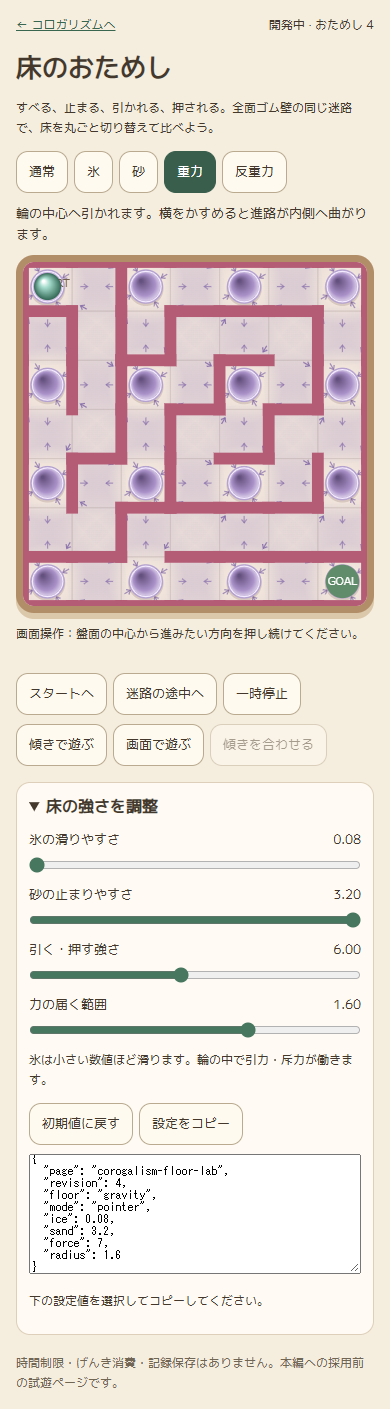
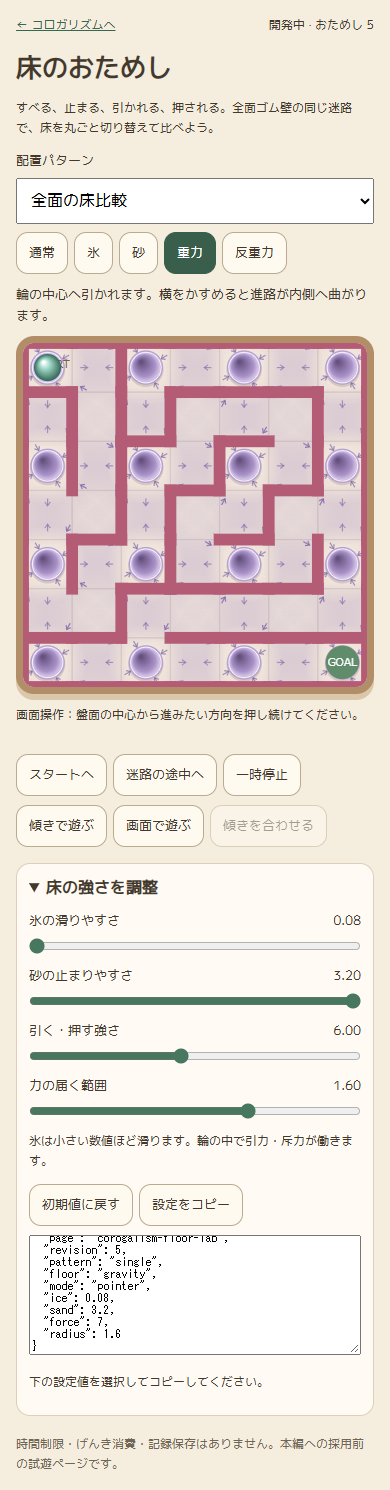
feat(T-251): add floor and corner-force trial patterns

diff --git a/src/lab/floorLab.js b/src/lab/floorLab.js
@@ -4,7 +4,7 @@ import { createFixedCamera } from '../render/camera.js';
 import { createTiltVector } from '../input/tiltVector.js';
 import { createTiltSource } from '../input/tiltSource.js';
 import { createPointerSource } from '../input/pointerSource.js';
-import { createFloorLab, applyFloor, FLOOR_OPTIONS, PATCH_CELLS } from './floorModel.js';
+import { createFloorLab, applyFloor, FLOOR_OPTIONS, PATTERNS } from './floorModel.js';
 
 import { drawFloorVisuals } from './floorVisuals.js';
 
@@ -12,6 +12,7 @@ const $ = id => document.getElementById(id);
 const canvas = $('board'), ctx = canvas.getContext('2d');
 const { stage, actor } = createFloorLab();
 const settings = { ...FLOOR_LAB }, tilt = createTiltVector();
+let pattern = 'single';
 let type = 'normal', mode = 'pointer', paused = false, last = 0, sensorTimer, requestId = 0;
 let camera, won = false, visualTime = 0;
 const reducedMotion = matchMedia('(prefers-reduced-motion: reduce)');
@@ -45,14 +46,18 @@ $('pointer').onclick = () => pointerMode();
 $('calibrate').onclick = () => { tilt.reset(); sensor.calibrate(); $('status').textContent = '今の姿勢で少し静止してください。'; scheduleFallback(requestId); };
 function reset(x = 0.5, y = 0.5) { Object.assign(actor, { x, y, vx: 0, vy: 0 }); tilt.reset(); won = false; }
 $('reset').onclick = () => reset();
-$('plaza').onclick = () => { const cell = stage.maze.path[Math.floor(stage.maze.path.length / 2)]; reset(cell.x + .5, cell.y + .5); };
+$('plaza').onclick = () => { const cell = stage.maze.path[stage.labSites.length ? Math.max(0, stage.labSites[0].index-2) : Math.floor(stage.maze.path.length / 2)]; reset(cell.x + .5, cell.y + .5); };
 $('pause').onclick = () => { paused = !paused; tilt.reset(); $('pause').textContent = paused ? '再開' : '一時停止'; };
 function updateFloor() {
-  applyFloor(stage, type, settings);
-  $('hint').textContent = FLOOR_OPTIONS[type].hint;
+  applyFloor(stage, type, settings, pattern);
+  $('hint').textContent = pattern === 'single' ? FLOOR_OPTIONS[type].hint : PATTERNS[pattern].hint;
+  $('floors').hidden = pattern !== 'single';
+  $('plaza').textContent = stage.labSites.length ? '試験区間へ' : '迷路の途中へ';
   for (const button of $('floors').children) button.setAttribute('aria-pressed', String(button.dataset.type === type));
   for (const key of Object.keys(settings)) { $(key).value = settings[key]; $(key + '-value').textContent = settings[key].toFixed(2); }
 }
+for (const [key, option] of Object.entries(PATTERNS)) { const el = document.createElement('option'); el.value = key; el.textContent = option.name; $('pattern').append(el); }
+$('pattern').onchange = () => { pattern = $('pattern').value; updateFloor(); reset(); };
 for (const [key, option] of Object.entries(FLOOR_OPTIONS)) {
   const button = document.createElement('button'); button.textContent = option.name; button.dataset.type = key;
   button.onclick = () => { type = key; updateFloor(); reset(); };
@@ -61,7 +66,7 @@ for (const [key, option] of Object.entries(FLOOR_OPTIONS)) {
 for (const key of Object.keys(settings)) $(key).oninput = () => { settings[key] = Number($(key).value); updateFloor(); };
 $('defaults').onclick = () => { Object.assign(settings, FLOOR_LAB); updateFloor(); reset(); };
 $('copy').onclick = async () => {
-  const text = JSON.stringify({ page: 'corogalism-floor-lab', revision: 4, floor: type, mode, ...settings }, null, 2);
+  const text = JSON.stringify({ page: 'corogalism-floor-lab', revision: 5, pattern, floor: type, mode, ...settings }, null, 2);
   $('settings-text').hidden = false; $('settings-text').value = text;
   try { await navigator.clipboard.writeText(text); $('copy-status').textContent = 'コピーしました。この設定と感想を送ってください。'; }
   catch { $('settings-text').focus(); $('settings-text').select(); $('copy-status').textContent = '下の設定値を選択してコピーしてください。'; }
@@ -113,4 +118,4 @@ function frame(now) {
 document.addEventListener('visibilitychange', () => { tilt.reset(); last = 0; if (document.hidden) { paused = true; $('pause').textContent = '再開'; } });
 window.addEventListener('blur', () => { tilt.reset(); paused = true; $('pause').textContent = '再開'; });
 pointerMode(); updateFloor(); requestAnimationFrame(frame);
-if (new URLSearchParams(location.search).has('debug')) window.__floorLab = { stage, actor, settings, get type() { return type; }, get mode() { return mode; } };
+if (new URLSearchParams(location.search).has('debug')) window.__floorLab = { stage, actor, settings, get pattern() { return pattern; }, get type() { return type; }, get mode() { return mode; } };

diff --git a/src/lab/floorModel.js b/src/lab/floorModel.js
@@ -22,10 +22,57 @@ export function createFloorLab() {
 export const PATCH_CELLS = Array.from({ length: 49 }, (_, i) => ({ x: i % 7, y: Math.floor(i / 7) }));
 export const FIELD_CENTERS = [0.5, 2.5, 4.5, 6.5].flatMap(y => [0.5, 2.5, 4.5, 6.5].map(x => ({ x, y })));
 
-export function applyFloor(stage, type, settings) {
+export const PATTERNS = {
+  single: { name: '全面の床比較', hint: '' },
+  iceRubber: { name: '全面氷＋ゴム', hint: '採用決定の組み合わせ。反発と慣性を制御してゴールへ。' },
+  iceSand: { name: '氷＋砂', hint: '氷で滑走し、曲がり角の手前と角の砂でブレーキ。' },
+  cornerGravity: { name: '曲がり角の重力', hint: '角の円盤は、曲がって進む方向と逆側へ引きます。' },
+  cornerRepulsion: { name: '曲がり角の反重力', hint: '角の円盤は、曲がって進む方向側から押し戻します。' },
+  iceGravity: { name: '氷＋重力', hint: '短い氷区間に重力を1個。滑る勢いと引力を読みます。' },
+  iceRepulsion: { name: '氷＋反重力', hint: '短い氷区間に反重力を1個。押されて変わる軌道を試そう。' },
+};
+
+export function cornerSites(maze) {
+  const sites = [];
+  for (let i = 3; i < maze.path.length - 3; i++) {
+    const prev = maze.path[i-1], cell = maze.path[i], next = maze.path[i+1];
+    const dx = next.x-cell.x, dy = next.y-cell.y;
+    if ((cell.x-prev.x)*dy === (cell.y-prev.y)*dx) continue;
+    if (sites.length && i-sites.at(-1).index < 5) continue;
+    sites.push({ index: i, cell, dx, dy });
+    if (sites.length === 3) break;
+  }
+  return sites;
+}
+
+export function applyFloor(stage, type, settings, pattern = 'single') {
   stage.zones = [];
+  stage.labPattern = pattern;
+  stage.labSites = [];
+  if (pattern !== 'single') {
+    const sites = cornerSites(stage.maze);
+    const floor = (kind, cells) => { if (cells.length) stage.zones.push({ kind, cells, ...(kind === 'ice' ? ICE_LAB : {}), frictionK: settings[kind], forceX: 0, forceY: 0 }); };
+    if (pattern === 'iceRubber') floor('ice', PATCH_CELLS);
+    if (pattern === 'iceSand') {
+      const sand = sites.flatMap(site => stage.maze.path.slice(site.index-1,site.index+1));
+      floor('sand', sand);
+      floor('ice', PATCH_CELLS.filter(c=>!sand.some(s=>s.x===c.x&&s.y===c.y)));
+    }
+    if (pattern.includes('Gravity') || pattern.includes('Repulsion')) {
+      const selected = pattern.startsWith('ice') ? sites.slice(0,1) : sites;
+      const attract = pattern.endsWith('Gravity');
+      for (const site of selected) {
+        const sign = attract ? -1 : 1;
+        stage.zones.push({ kind: 'radial', x: site.cell.x+.5+sign*site.dx*.14, y: site.cell.y+.5+sign*site.dy*.14,
+          radius: settings.radius, strength: settings.force*(attract?1:-1), corner: true });
+        stage.labSites.push(site);
+        if (pattern.startsWith('ice')) floor('ice',stage.maze.path.slice(site.index-2,site.index+2));
+      }
+    }
+    return;
+  }
   if (type === 'ice' || type === 'sand') {
-    stage.zones.push({ cells: PATCH_CELLS, ...(type === 'ice' ? { kind: 'ice', ...ICE_LAB } : {}), frictionK: settings[type], forceX: 0, forceY: 0 });
+    stage.zones.push({ cells: PATCH_CELLS, kind: type, ...(type === 'ice' ? { kind: 'ice', ...ICE_LAB } : {}), frictionK: settings[type], forceX: 0, forceY: 0 });
   } else if (type === 'gravity' || type === 'repulsion') {
     for (const center of FIELD_CENTERS) stage.zones.push({ kind: 'radial', ...center, radius: settings.radius,
       strength: settings.force * (type === 'gravity' ? 1 : -1) });

diff --git a/src/lab/floorVisuals.js b/src/lab/floorVisuals.js
@@ -1,5 +1,4 @@
 import { sampleZone } from '../world/stage.js';
-import { PATCH_CELLS, FIELD_CENTERS } from './floorModel.js';
 
 // 物理に触れず、セル座標の描画だけを担当する。
 export function drawFloorVisuals(ctx, camera, { type, settings, actor, time, reduced, stage }) {
@@ -15,8 +14,9 @@ export function drawFloorVisuals(ctx, camera, { type, settings, actor, time, red
     line([[-length/2,0],[length/2,0]]);
     line([[length/2-.07,-.055],[length/2,0],[length/2-.07,.055]]); ctx.restore();
   };
-  if (type === 'ice' || type === 'sand') {
-    for (const {x,y} of PATCH_CELLS) {
+  {
+    const patches = stage.zones.filter(z=>z.kind === 'ice' || z.kind === 'sand').flatMap(z=>z.cells.map(c=>({...c,type:z.kind})));
+    for (const {x,y,type} of patches) {
       ctx.save(); ctx.beginPath(); ctx.rect(x+.025,y+.025,.95,.95); ctx.clip();
       const tint = ctx.createLinearGradient(x,y,x+1,y+1);
       tint.addColorStop(0, type === 'ice' ? '#e6fbfc' : '#f6dfaa');
@@ -42,7 +42,7 @@ export function drawFloorVisuals(ctx, camera, { type, settings, actor, time, red
       }
       ctx.restore();
     }
-    const onSand = type === 'sand' && PATCH_CELLS.some(c=>c.x===Math.floor(actor.x)&&c.y===Math.floor(actor.y));
+    const onSand = patches.some(c=>c.type==='sand'&&c.x===Math.floor(actor.x)&&c.y===Math.floor(actor.y));
     const speed = Math.hypot(actor.vx,actor.vy);
     if (onSand && speed > .15 && !reduced) {
       const angle=Math.atan2(actor.vy,actor.vx);
@@ -53,10 +53,10 @@ export function drawFloorVisuals(ctx, camera, { type, settings, actor, time, red
       }
     }
   }
-  if (type === 'gravity' || type === 'repulsion') {
-    for (const {x,y} of FIELD_CENTERS) {
+  if (stage.zones.some(z=>z.kind==='radial')) {
+    for (const {x,y,radius,strength,corner} of stage.zones.filter(z=>z.kind==='radial')) {
     ctx.globalAlpha=1;
-    const inward=type==='gravity', radius=settings.radius;
+    const inward=strength>0;
     const rgb=inward?'127,102,175':'208,122,75';
     const color=inward?'#8066a6':'#b5683f';
     const membrane=ctx.createRadialGradient(x,y,0,x,y,radius);
@@ -75,6 +75,8 @@ export function drawFloorVisuals(ctx, camera, { type, settings, actor, time, red
     }
     ctx.globalAlpha=1;
     // 凹んだすり鉢と凸のドームを陰影・輪郭で区別する。
+    ctx.save();
+    if (corner) { ctx.translate(x,y); ctx.scale(.6,.6); ctx.translate(-x,-y); }
     circle(x,y+.035,.36,'#6a4d4430');
     circle(x,y,.35,inward?'#b5a2ce':'#dcb493');
     const disk=ctx.createRadialGradient(x-.1,y-.12,.025,x,y,.31);
@@ -83,12 +85,13 @@ export function drawFloorVisuals(ctx, camera, { type, settings, actor, time, red
     disk.addColorStop(1,inward?'#e0d4eb':'#a76945');
     circle(x,y,.29,disk);
     ctx.strokeStyle=inward?'#f4eaff':'#9b603e'; ctx.lineWidth=.025; circle(x,y,.31);
+    ctx.restore();
     }
     const force = sampleZone(stage, actor), magnitude = Math.hypot(force.forceX, force.forceY);
     if (magnitude > .01) {
       const a = Math.atan2(force.forceY, force.forceX);
       ctx.globalAlpha = Math.min(1, magnitude / settings.force);
-      arrow(actor.x+Math.cos(a)*(actor.r+.16),actor.y+Math.sin(a)*(actor.r+.16),a,.22,type==='gravity'?'#8066a6':'#b5683f');
+      arrow(actor.x+Math.cos(a)*(actor.r+.16),actor.y+Math.sin(a)*(actor.r+.16),a,.22,stage.zones.find(z=>z.kind==='radial').strength>0?'#8066a6':'#b5683f');
     }
   }
   ctx.restore();

diff --git a/src/world/stage.js b/src/world/stage.js
@@ -103,39 +103,28 @@ export function sampleZone(stage, actor) {
   if (!stage.zones.length) return NEUTRAL_ZONE;
   const cx = Math.floor(actor.x);
   const cy = Math.floor(actor.y);
-  const radial = stage.zones.filter(z => z.kind === 'radial');
-  if (radial.length > 1) {
-    let forceX = 0, forceY = 0, limit = 0;
-    for (const z of radial) {
-      const dx = z.x - actor.x, dy = z.y - actor.y, distance = Math.hypot(dx, dy);
-      limit = Math.max(limit, Math.abs(z.strength));
-      if (distance >= z.radius) continue;
-      const scale = z.strength * 4 * (1 - distance / z.radius) / z.radius;
-      forceX += dx * scale; forceY += dy * scale;
-    }
-    const scale = Math.min(1, limit / (Math.hypot(forceX, forceY) || 1));
-    return { ...NEUTRAL_ZONE, forceX: forceX * scale, forceY: forceY * scale };
-  }
+  let result = { ...NEUTRAL_ZONE };
   for (const z of stage.zones) {
-    if (z.kind === 'radial') {
-      const dx = z.x - actor.x, dy = z.y - actor.y;
-      const distance = Math.hypot(dx, dy);
-      if (distance >= z.radius) continue;
-      // 中心でも境界でも力は0。中心を横切る際に方向が不連続にならない。
-      const scale = z.strength * 4 * (1 - distance / z.radius) / z.radius;
-      return { ...NEUTRAL_ZONE, ...z, forceX: dx * scale, forceY: dy * scale };
+    if (z.kind === 'radial' || !z.cells?.some(c => c.x === cx && c.y === cy)) continue;
+    result = { ...result, ...z };
+    if (z.kind === 'ice') {
+      const speed = Math.hypot(actor.vx, actor.vy);
+      result.accelK = z.minAccelK + (1 - z.minAccelK) / (1 + (speed / z.transitionSpeed) ** 2);
     }
-    if (z.cells.some((c) => c.x === cx && c.y === cy)) {
-      if (z.kind === 'ice') {
-        // 速度がある間は傾きによる加減速を弱め、静止に近づくほど通常の操作性へ戻す。
-        const speed = Math.hypot(actor.vx, actor.vy);
-        const accelK = z.minAccelK + (1 - z.minAccelK) / (1 + (speed / z.transitionSpeed) ** 2);
-        return { ...z, accelK };
-      }
-      return z;
-    }
+    break;
   }
-  return NEUTRAL_ZONE;
+  // 床の摩擦・加速と、力場の外力を同時に解決する。
+  let forceX = 0, forceY = 0, limit = 0;
+  for (const z of stage.zones) {
+    if (z.kind !== 'radial') continue;
+    const dx = z.x - actor.x, dy = z.y - actor.y, distance = Math.hypot(dx, dy);
+    limit = Math.max(limit, Math.abs(z.strength));
+    if (distance >= z.radius) continue;
+    const scale = z.strength * 4 * (1 - distance / z.radius) / z.radius;
+    forceX += dx * scale; forceY += dy * scale;
+  }
+  const scale = Math.min(1, limit / (Math.hypot(forceX, forceY) || 1));
+  return { ...result, forceX: result.forceX + forceX * scale, forceY: result.forceY + forceY * scale };
 }
 
 /** ゴールの中心（マス単位） */

diff --git a/test/floor-lab.test.js b/test/floor-lab.test.js
@@ -5,6 +5,38 @@ import { sampleZone } from '../src/world/stage.js';
 import { BASE, FLOOR_LAB } from '../src/config/gameConfig.js';
 import { stepPhysics } from '../src/physics/integrator.js';
 import { checkReachability } from '../src/maze/validator.js';
+import { PATTERNS } from '../src/lab/floorModel.js';
+import { resolveParams } from '../src/physics/resolveParams.js';
+
+test('複合パターンは同一迷路・安全壁で床の対比と方向に沿う力を配置', () => {
+  const {stage, actor} = createFloorLab();
+  const maze = JSON.stringify(stage.maze);
+  for (const pattern of Object.keys(PATTERNS)) {
+    applyActualFloor(stage, 'normal', FLOOR_LAB, pattern);
+    assert.equal(JSON.stringify(stage.maze), maze);
+    assert.ok(stage.walls.every(w=>w.materialId==='rubber'));
+    if (pattern==='iceRubber') assert.equal(stage.zones[0].cells.length,49);
+    if (pattern==='iceSand') {
+      assert.equal(stage.zones.length,2);
+      assert.equal(new Set(stage.zones.flatMap(z=>z.cells.map(c=>`${c.x},${c.y}`))).size,49);
+      assert.ok(stage.zones.every(z=>z.cells.length>0));
+    }
+    for (const site of stage.labSites) {
+      Object.assign(actor,{x:site.cell.x+.5,y:site.cell.y+.5,vx:0,vy:0});
+      const z=sampleZone(stage,actor);
+      assert.ok(z.forceX*site.dx+z.forceY*site.dy<0, pattern);
+      const p=resolveParams({base:BASE,character:actor.character,zone:z});
+      assert.ok(p.accel>Math.hypot(p.forceX,p.forceY));
+      if(pattern.startsWith('ice')) {
+        assert.equal(z.frictionK,FLOOR_LAB.ice);
+        assert.equal(stage.zones.filter(z=>z.kind==='radial').length,1);
+        assert.equal(stage.zones.find(z=>z.kind==='ice').cells.length,4);
+        actor.vx=3;
+        assert.ok(sampleZone(stage,actor).accelK<.5);
+      }
+    }
+  }
+});
 // 摩擦・慣性・単一の力場の検証は壁のない床で分離して測る。
 function applyFloor(stage, type, settings) {
   stage.walls = [];

diff --git a/floor-lab.css b/floor-lab.css
@@ -1,2 +1,4 @@
 @font-face{font-family:Lab;src:url('./assets/fonts/MPLUS1p-Regular.woff2') format('woff2');font-display:swap}
 *{box-sizing:border-box}body{margin:0;background:#f5eedf;color:#44382c;font-family:Lab,system-ui,sans-serif}main{max-width:576px;margin:auto;padding:16px}header{display:flex;justify-content:space-between;gap:8px;font-size:12px}a{color:#38664e}h1{font-size:26px;margin:14px 0 4px}.intro,footer,.note{font-size:12px;line-height:1.7}nav,.buttons{display:flex;gap:6px;flex-wrap:wrap}button{font:inherit;font-size:13px;padding:10px 12px;min-height:42px;border:1px solid #b9aa90;border-radius:12px;background:#fffaf0;color:inherit;cursor:pointer}button[aria-pressed=true]{background:#395e4c;color:white;border-color:#395e4c}button:disabled{opacity:.45}button:focus-visible,a:focus-visible,input:focus-visible{outline:3px solid #3b897b;outline-offset:2px}#hint{font-size:13px;min-height:42px;line-height:1.6;margin:10px 0}.board{width:min(100%,56svh);margin:auto;aspect-ratio:1;border:7px solid #b18e68;border-radius:18px;overflow:hidden;background:#fff7e7;box-shadow:0 6px 0 #dbc7aa}canvas{display:block;width:100%;height:100%;touch-action:none}#status{font-size:12px;min-height:36px;line-height:1.5}.buttons{margin:9px 0}details{background:#fffbf4;border:1px solid #ddcfb9;border-radius:14px;padding:12px;margin-top:16px}summary{cursor:pointer;font-weight:bold}label{display:block;font-size:13px;margin-top:12px}output{float:right;font-variant-numeric:tabular-nums}input[type=range]{display:block;width:100%;accent-color:#47775f;margin:8px 0}textarea{width:100%;min-height:120px;font-size:12px}footer{margin-top:18px;color:#716553}#copy-status{font-size:12px}@media(prefers-reduced-motion:reduce){*{scroll-behavior:auto}}
+
+[hidden]{display:none!important}

diff --git a/floor-lab.html b/floor-lab.html
@@ -7,9 +7,10 @@
   <link rel="stylesheet" href="floor-lab.css">
 </head>
 <body><main>
-  <header><a href="./">← コロガリズムへ</a><span>開発中 · おためし 4</span></header>
+  <header><a href="./">← コロガリズムへ</a><span>開発中 · おためし 5</span></header>
   <h1>床のおためし</h1>
-  <p class="intro">すべる、止まる、引かれる、押される。全面ゴム壁の同じ迷路で、床を丸ごと切り替えて比べよう。</p>
+  <p class="intro">すべる、止まる、引かれる、押される。全面ゴム壁の同じ迷路で、床と力場の組み合わせを比べよう。</p>
+  <label for="pattern">配置パターン</label><select id="pattern" style="width:100%;padding:10px;margin:8px 0;font:inherit"></select>
   <nav id="floors" aria-label="床を選ぶ"></nav>
   <p id="hint"></p>
   <div class="board"><canvas id="board" aria-label="床の試遊コース。画面操作では進みたい方向を押し続けます。"></canvas></div>

diff --git a/precache.js b/precache.js
@@ -1,4 +1,4 @@
-self.PRECACHE_VERSION = '201572b92c119fa9';
+self.PRECACHE_VERSION = 'c02829abe4eb2e77';
 self.PRECACHE_FILES = [
   "assets/audio/bgm.wav",
   "assets/audio/rolling-loop.wav",

diff --git a/docs/floor-lab.md b/docs/floor-lab.md
@@ -1,5 +1,7 @@
 # 床のおためし
 
+**現行T-251 / おためし5:** 配置パターン選択を追加。全面氷＋全面ゴムはユーザー採用決定済み。本編の抽選への組み込み・制限時間は別途調整する。おためしは全壁ゴム・時間制限なしで比較。旧全面比較も維持。
+
 **現行T-250 / おためし4:** 7×7固定迷路（seed250）、外周を含め全壁ゴム。通常・氷・砂は全面適用。重力・反重力は16地点（各軸0.5/2.5/4.5/6.5）に同じ力場を配置し、重なりは合成後に設定した力を上限とする。半径を小さくすると力の届かない隙間ができる。「迷路の途中へ」は正解経路の中間セルへ移動。ゴールは右下。切替時の迷路形状・スタートは共通。以下の旧コース・部分床の記述は履歴。
 
 2026-09-22。ユーザー承認: 既存チュートリアルとは別の公開ページで試遊し、正式採用を判断する。
@@ -44,3 +46,14 @@
 ## T-250 検証
 
 130テスト成功。全セルの到達性、全壁ゴム、氷・砂の49セル適用、床切替でも迷路を維持、複数力場の合成上限を確認。ブラウザ3幅とセンサー3経路、オフライン、4床の表示と演出停止を確認。
+
+
+## T-251 組み合わせの検証
+
+全面氷＋ゴム／氷＋砂／曲がり角の重力／曲がり角の反重力／氷＋重力／氷＋反重力の6パターン。正解経路の折れ点を入口・出口付近を除いて最大3個、経路上5セル以上離して選ぶ。氷＋砂は折れ点の1つ手前と角を砂にする。重力は出口方向と逆に0.14セル、反重力は出口側に0.14セル、角の中心から円盤をずらす。円盤は小さく描き壁の内側に収める。氷＋力場は最初の折れ点1個と前後計4セルの氷区間だけを使用。
+
+sampleZoneは床の摩擦・速度依存の加速と、力場の外力を合成する。従来の複数力場の合成上限を維持。全面比較への切替は配置を完全にリセット。全パターンは同一迷路・全ゴム壁で、石・トゲなし。低反発の安全壁との比較は今後の体感を見て判断する。
+
+「試験区間へ」で力場の2セル手前に移動できる。設定コピーはrevision5とpatternを含む。全面氷＋ゴムの採用決定と、ほかの複合パターンの未採用を区別する。
+
+131テスト成功。曲がり角における力の向き、氷と力場の同時適用、停止から逆らえる加速、床の全面被覆、安全壁、迷路の維持を検証。browser-floor-patternsで3幅の全6パターン、設定コピー、試験区間へ移動、全面比較への復帰を確認。既存browser-floor-labの3幅・センサー3経路・旧PWA・オフラインも成功。

diff --git a/docs/remaining-work.md b/docs/remaining-work.md
@@ -36,3 +36,8 @@ T-247で氷・砂・重力・反重力の別ページ試遊を実装。`floor-la
 - T-209の旧バージョンの序盤再試遊: 最新のやさしい／通常モードの評価に読み替える。
 
 参照: docs/tasks.md、docs/deployment.md、docs/tutorial-continuous.md、docs/leaf-floors-pwa.md、docs/sensor-ideas.md、AGENTS.md。
+
+
+## 床の追加判断（T-251）
+
+全面氷＋全面ゴムはユーザー採用決定済み。本編への組み込み、出現タイミング・時間の調整が次の作業。おためし5で氷＋砂、折れ点の重力・反重力、短い氷＋力場を評価する。これらの正式採用は未確定。強い床効果に石・トゲを重ねない方針で試遊中。

diff --git a/docs/handoff-codex.md b/docs/handoff-codex.md
@@ -2,6 +2,8 @@
 
 ## 現在地
 
+- T-251: おためし5に6つの複合パターンを追加。全面氷＋全ゴムは採用決定、本編抽選への反映・時間調整は未実施。その他は試遊評価待ち。
+
 - T-250: おためし4。固定迷路・全ゴム壁・全面床へ変更。力場は複数配置で比較、詳細docs/floor-lab.md。
 
 - T-249: おためし3。氷の初期値を0.08へ訂正し、速度があるほど傾きの加減速が弱まる試遊仕様へ。重力・反重力の外周点線を削除。T-248の氷0.72は旧値。
